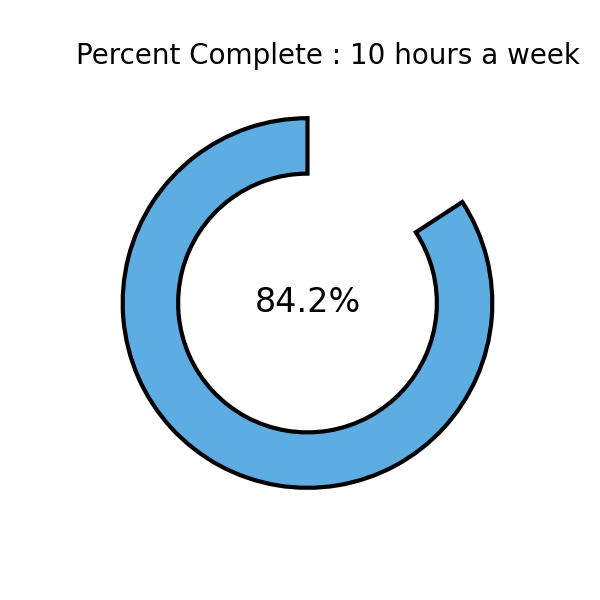
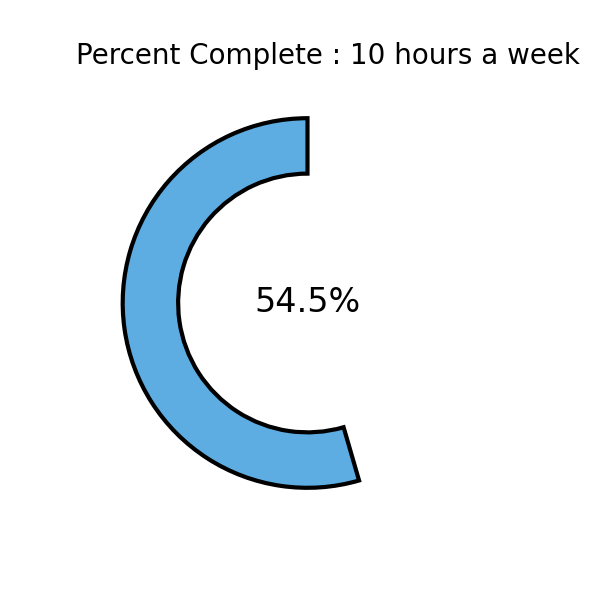
last commit from laptop

Changed region(s): [[0.57, 0.33, 0.84, 0.81], [0.42, 0.48, 0.48, 0.54], [0.51, 0.48, 0.54, 0.54]]

diff --git a/app.py b/app.py
@@ -41,6 +41,8 @@ app = Flask(__name__)
 
 
 app.config['SQLALCHEMY_DATABASE_URI'] = f'postgresql://postgres:{settings.pgpw}@localhost/progress'
+# app.config['SQLALCHEMY_DATABASE_URI'] = f'postgresql://postgres:@localhost/progress'
+
 app.config['SQLALCHEMY_TRACK_MODIFICATIONS'] = False
 app.secret_key = settings.sky
 
@@ -241,6 +243,8 @@ import numpy as np
 from matplotlib.patches import Patch
 from matplotlib.lines import Line2D
 
+import numpy as np ## To create evenly spaced numbers 
+
 @app.route('/multi_progress_plot')
 def multi_progress_plot ():
 
@@ -269,17 +273,19 @@ def multi_progress_plot ():
 
     xs = [(i * pi *2)/ full_circle_each_subj for i in data]
 
-   #  ys = [-0.2, 1, 2.2, 3.5, 4.8, 5.7] ## This controls gap btw circles. Match data len 
-    ys = [-1.5, 1.2, 2.5, 3.9, 5.2, 12] ## This controls gap btw circles. Match data len 
+    ###### SPAcing the circles
+    ys = np.linspace(3, 9, num=len(data))  ## This controls gap btw circles. Match data len 
 
     left = (startangle * pi *2)/ 360 #this is to control where the bar starts
+
     # plot bars and points at the end to make them round
     for i, x in enumerate(xs):
-        ax.barh(ys[i], x, left=left, height=1, color=colors[i])
-        ax.scatter(x+left, ys[i], s=350, color=colors[i], zorder=2)
+        ax.barh(ys[i], x, left=left, height=0.8, color=colors[i])
+        ax.scatter(x+left, ys[i], s=350, color=colors[i], zorder=2) ## The cup at the end of crcle
         ax.scatter(left, ys[i], s=350, color=colors[i], zorder=2)
     
-    plt.ylim(-4, 4)
+    # plt.ylim(-4, 4)   ### This Mother fucker was limiting y axis - hence number of rings
+    
 
     ############# LEGEND ELEMENTS
     subject_titles = [i[0] for i in subjects if i[1]!= None]  ## Get the Subj names from above tuple
@@ -294,8 +300,12 @@ def multi_progress_plot ():
     
     ax.legend(handles=legend_elements, loc='center', frameon=False)
     ### clear ticks, grids, spines
-    # plt.xticks([])
-    # plt.yticks([])
+    ax.set_xticks([]) # values
+    ax.set_xticklabels([]) # labels
+
+    ax.set_yticks([]) # values
+    ax.set_yticklabels([]) # labels
+    
     ax.spines.clear()
 
     plt.savefig('static/images/multi_progress_plot.png')

diff --git a/playgroud.py b/playgroud.py
@@ -1,33 +1,14 @@
-l = [('DS', None), ('SQL', 23), ('SQL ', 34), ('ML', 139)]
-lll =  [i[0] for i in l if i[1]!= None]
+import numpy as np
+
+n2 = np.linspace(2.0, 3.0, num=5, retstep=True)
+n3 = np.linspace(0, 2, 15, endpoint = True)
+# n4 = np.linspace(1, 10, num=10)
+n4 = np.linspace(-1, 4, num=7)
+
+print (n2)
+print ('~'*100)
+print (n3)
+print ('~'*100)
+print (n4)
 
 
-
-ll = [i[0] for i in l]
-distinct_subjects =  [i[0] for i in l if i[1]!= None]
-learn_total_per_subject = [i[1] for i in l if i[1]!= None]
-
-
-
-print (ll)
-
-print (l[0][1])
-print ('THis is what you want ' , distinct_subjects)
-
-print ('-'*76)
-
-l1 = ['SQL',  'SQLL ', 'ML']
-l2 = ['#4393E5', '#43BAE5', '#7AE6EA']
-
-for legend, color in list(zip(l1, l2)):
-    print (legend, color )
-
-print ('~'*99)
-
-data = 
-
-color_palette = ['#4393E5', '#43BAE5', '#7AE6EA', '#4933FF', '#33FF8A',
-                     '#FF33C1', '#FF336E', '#FF4633', '#F9FF33', '#3FFF33'] 
-#colors = random.choices(color_palette, k = len(data)) Radnom can repeat
-colors = color_palette[:len(data)]
-print (colors)
